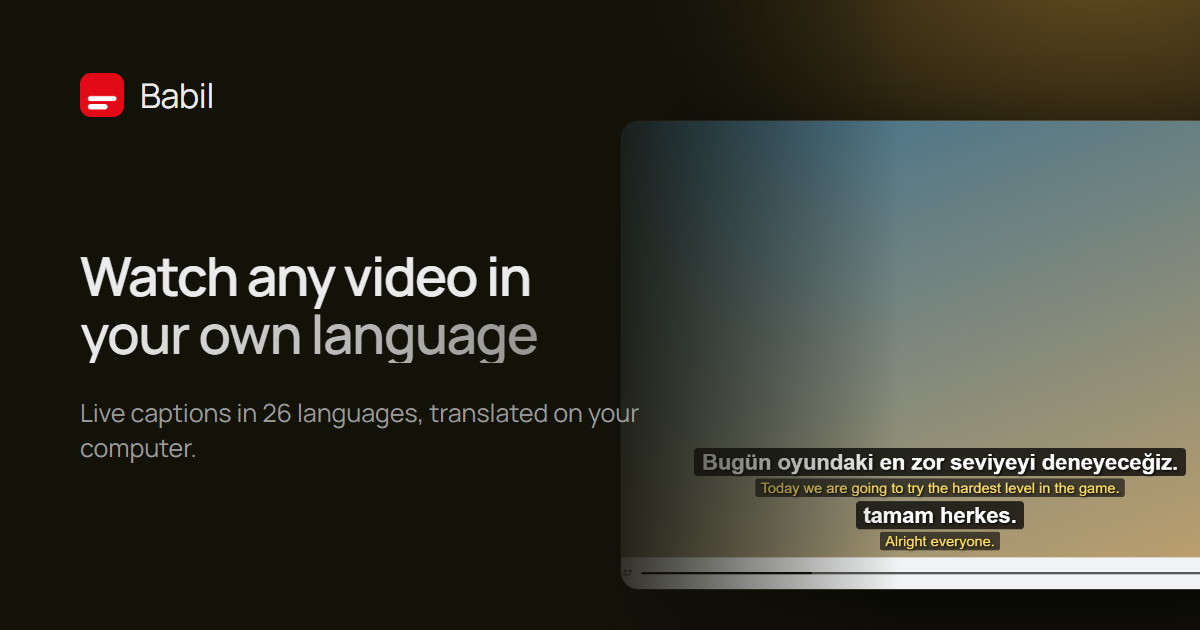
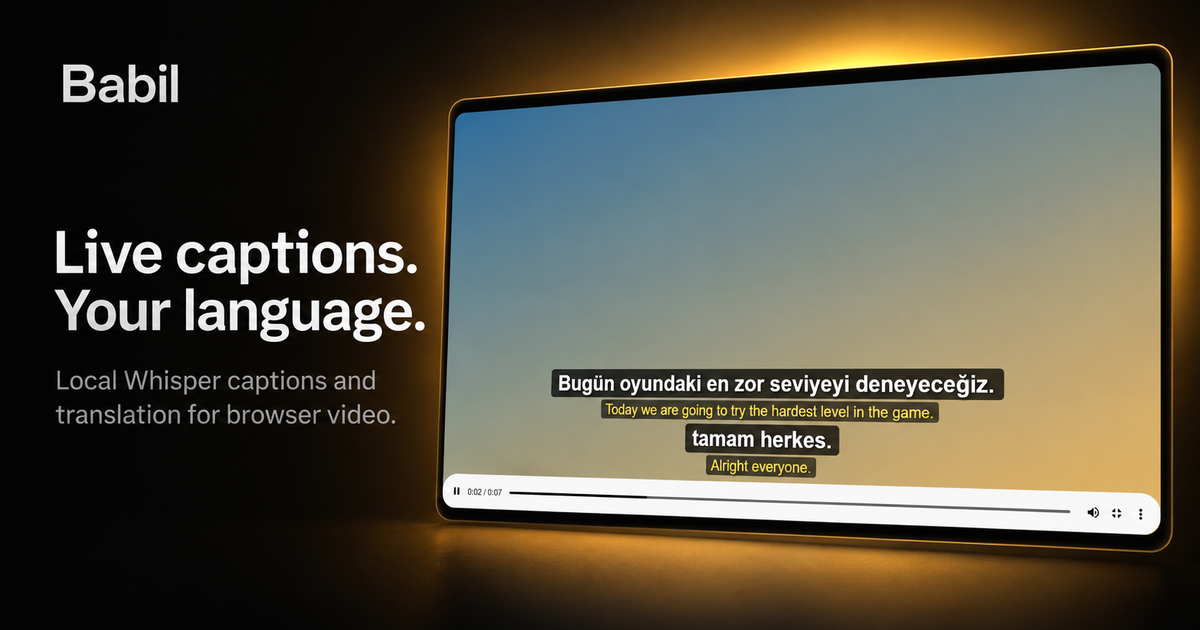
Use approved product cover for link previews

diff --git a/docs/index.html b/docs/index.html
@@ -13,12 +13,12 @@
 <meta property="og:title" content="Babil | Live Translated Captions">
 <meta property="og:description" content="Watch videos in your language. Live captions in 26 languages, generated and translated on your computer.">
 <meta property="og:url" content="https://babil.menzo.dev/">
-<meta property="og:image" content="https://babil.menzo.dev/og.png">
+<meta property="og:image" content="https://babil.menzo.dev/og.png?v=20261023">
 <meta property="og:image:width" content="1200">
 <meta property="og:image:height" content="630">
-<meta property="og:image:alt" content="Babil: watch any video in your own language">
+<meta property="og:image:alt" content="Babil browser video with original and translated live captions.">
 <meta name="twitter:card" content="summary_large_image">
-<meta name="twitter:image" content="https://babil.menzo.dev/og.png">
+<meta name="twitter:image" content="https://babil.menzo.dev/og.png?v=20261023">
 <link rel="preconnect" href="https://fonts.googleapis.com">
 <link rel="preconnect" href="https://fonts.gstatic.com" crossorigin>
 <link rel="stylesheet" href="https://fonts.googleapis.com/css2?family=Manrope:wght@400;600;700&amp;display=swap">
